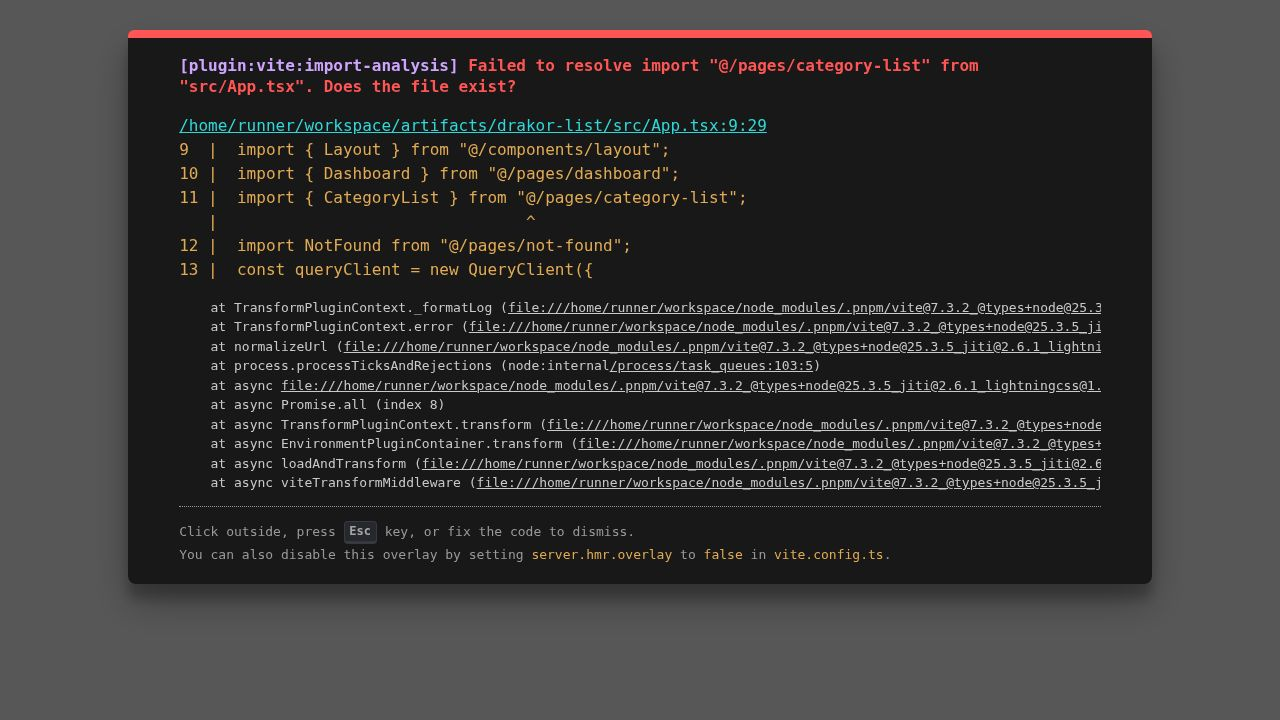
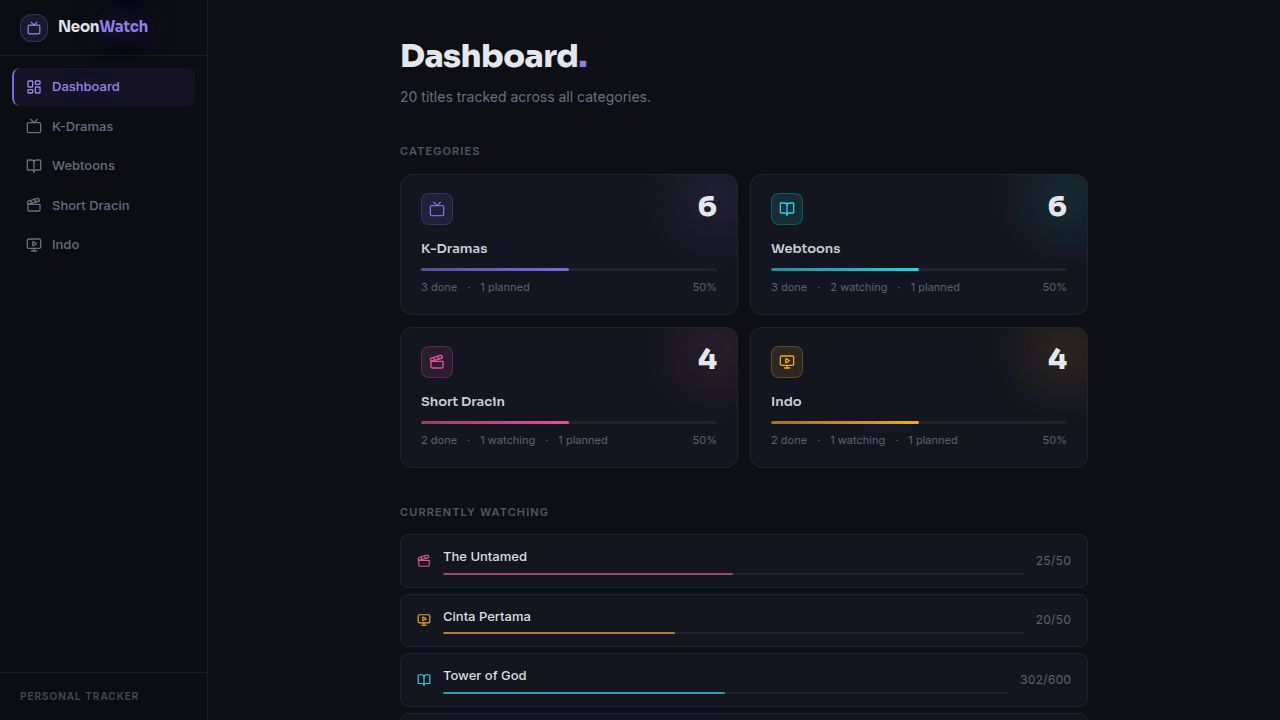
Add ability to mark movies as completed directly from the list
Update `ItemCard` component to display a "Selesai" button for movies (items without `totalEpisodes`) and adjust `handleEpisodeUp` logic to mark movies as completed in a single click.

Replit-Commit-Author: Agent
Replit-Commit-Session-Id: fdf8ec0e-246e-4485-bfe0-a651e5e7ab06
Replit-Commit-Checkpoint-Type: full_checkpoint
Replit-Commit-Event-Id: 559af203-0190-4c00-9515-65b16cf83af5
Replit-Commit-Screenshot-Url: https://storage.googleapis.com/screenshot-production-us-central1/00b02a30-7d8d-4c8b-a3d3-24d5abe39fcd/fdf8ec0e-246e-4485-bfe0-a651e5e7ab06/qeX7ncT
Replit-Helium-Checkpoint-Created: true

diff --git a/artifacts/drakor-list/src/pages/category-list.tsx b/artifacts/drakor-list/src/pages/category-list.tsx
@@ -334,12 +334,12 @@ function ItemCard({ item, onEdit, onDelete, onStatus, onEpisodeUp }: {
                 Ep {item.currentEpisode}/{item.totalEpisodes}
               </span>
             )}
-            {/* +1 Ep button — only when watching and totalEpisodes is set */}
+            {/* Series: +1 ep — watching + ada totalEpisodes */}
             {st === "watching" && item.totalEpisodes != null && (
               <button
                 onClick={onEpisodeUp}
                 data-testid={`button-episode-up-${item.id}`}
-                title={`Selesai nonton 1 episode`}
+                title="Selesai nonton 1 episode"
                 style={{
                   display: "inline-flex", alignItems: "center", gap: 3,
                   padding: "2px 8px", borderRadius: 20, fontSize: 11, fontWeight: 600,
@@ -354,6 +354,28 @@ function ItemCard({ item, onEdit, onDelete, onStatus, onEpisodeUp }: {
               >
                 <ChevronRight className="w-3 h-3" />
                 +1 ep
+              </button>
+            )}
+            {/* Movie: ✓ Selesai — watching + TIDAK ada totalEpisodes */}
+            {st === "watching" && item.totalEpisodes == null && (
+              <button
+                onClick={onEpisodeUp}
+                data-testid={`button-episode-up-${item.id}`}
+                title="Tandai sudah selesai ditonton"
+                style={{
+                  display: "inline-flex", alignItems: "center", gap: 3,
+                  padding: "2px 8px", borderRadius: 20, fontSize: 11, fontWeight: 600,
+                  background: "hsla(252,70%,60%,0.1)",
+                  border: "1px solid hsla(252,70%,60%,0.3)",
+                  color: "hsl(252,70%,75%)",
+                  cursor: "pointer", transition: "all 150ms",
+                  fontFamily: "'Inter',sans-serif",
+                }}
+                onMouseEnter={e => { const el = e.currentTarget; el.style.background = "hsla(252,70%,60%,0.2)"; el.style.borderColor = "hsla(252,70%,60%,0.55)"; }}
+                onMouseLeave={e => { const el = e.currentTarget; el.style.background = "hsla(252,70%,60%,0.1)"; el.style.borderColor = "hsla(252,70%,60%,0.3)"; }}
+              >
+                <CheckCircle2 className="w-3 h-3" />
+                Selesai
               </button>
             )}
           </div>
@@ -432,26 +454,34 @@ export function CategoryList({ category, title }: { category: string; title: str
   }
 
   async function handleEpisodeUp(item: Item) {
-    if (!item.totalEpisodes) return;
-    const current = item.currentEpisode ?? 0;
-    const next = current + 1;
-    const finished = next >= item.totalEpisodes;
+    const isMovie = item.totalEpisodes == null;
     try {
-      await updMedia.mutateAsync({
-        id: item.id,
-        data: {
-          currentEpisode: finished ? item.totalEpisodes : next,
-          ...(finished ? { status: "completed" } : {}),
-        },
-      });
-      inv();
-      if (finished) {
-        toast({ title: `🎉 Selesai! "${item.title}" tamat.` });
+      if (isMovie) {
+        // Movie: langsung selesai
+        await updMedia.mutateAsync({ id: item.id, data: { status: "completed" } });
+        inv();
+        toast({ title: `🎉 Selesai nonton "${item.title}"!` });
       } else {
-        toast({ title: `Ep ${next}/${item.totalEpisodes} — ${item.title}`, duration: 2000 });
+        // Series: naik 1 episode
+        const current = item.currentEpisode ?? 0;
+        const next = current + 1;
+        const finished = next >= item.totalEpisodes!;
+        await updMedia.mutateAsync({
+          id: item.id,
+          data: {
+            currentEpisode: finished ? item.totalEpisodes! : next,
+            ...(finished ? { status: "completed" } : {}),
+          },
+        });
+        inv();
+        if (finished) {
+          toast({ title: `🎉 Selesai! "${item.title}" tamat.` });
+        } else {
+          toast({ title: `Ep ${next}/${item.totalEpisodes} — ${item.title}`, duration: 2000 });
+        }
       }
     } catch {
-      toast({ title: "Gagal update episode", variant: "destructive" });
+      toast({ title: "Gagal update", variant: "destructive" });
     }
   }
 